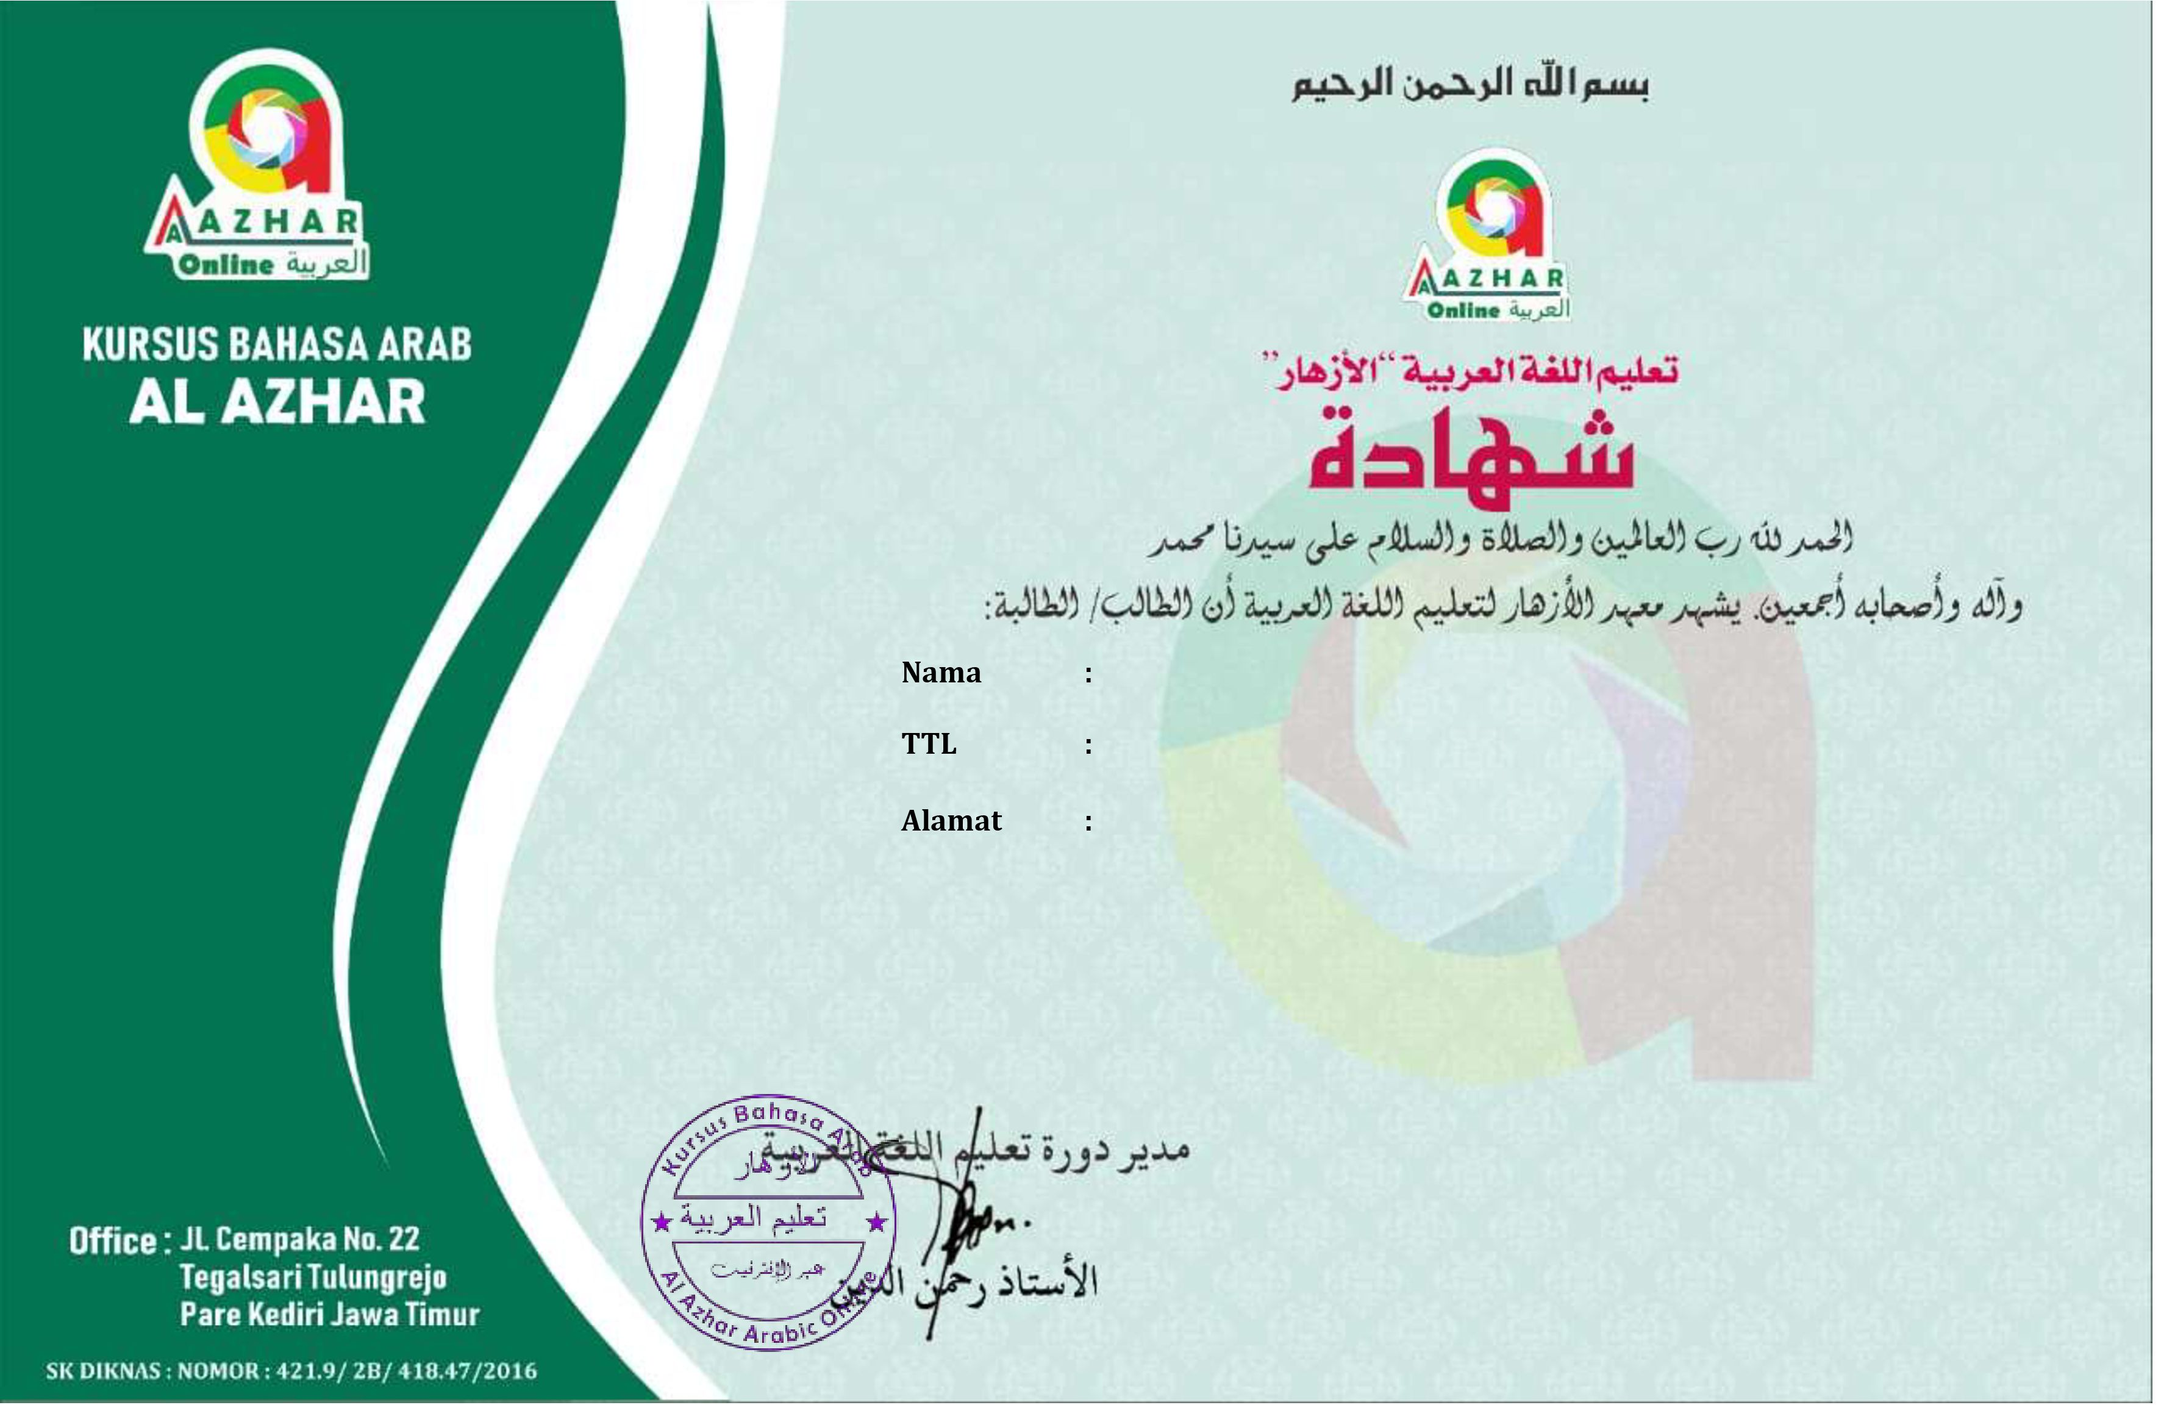
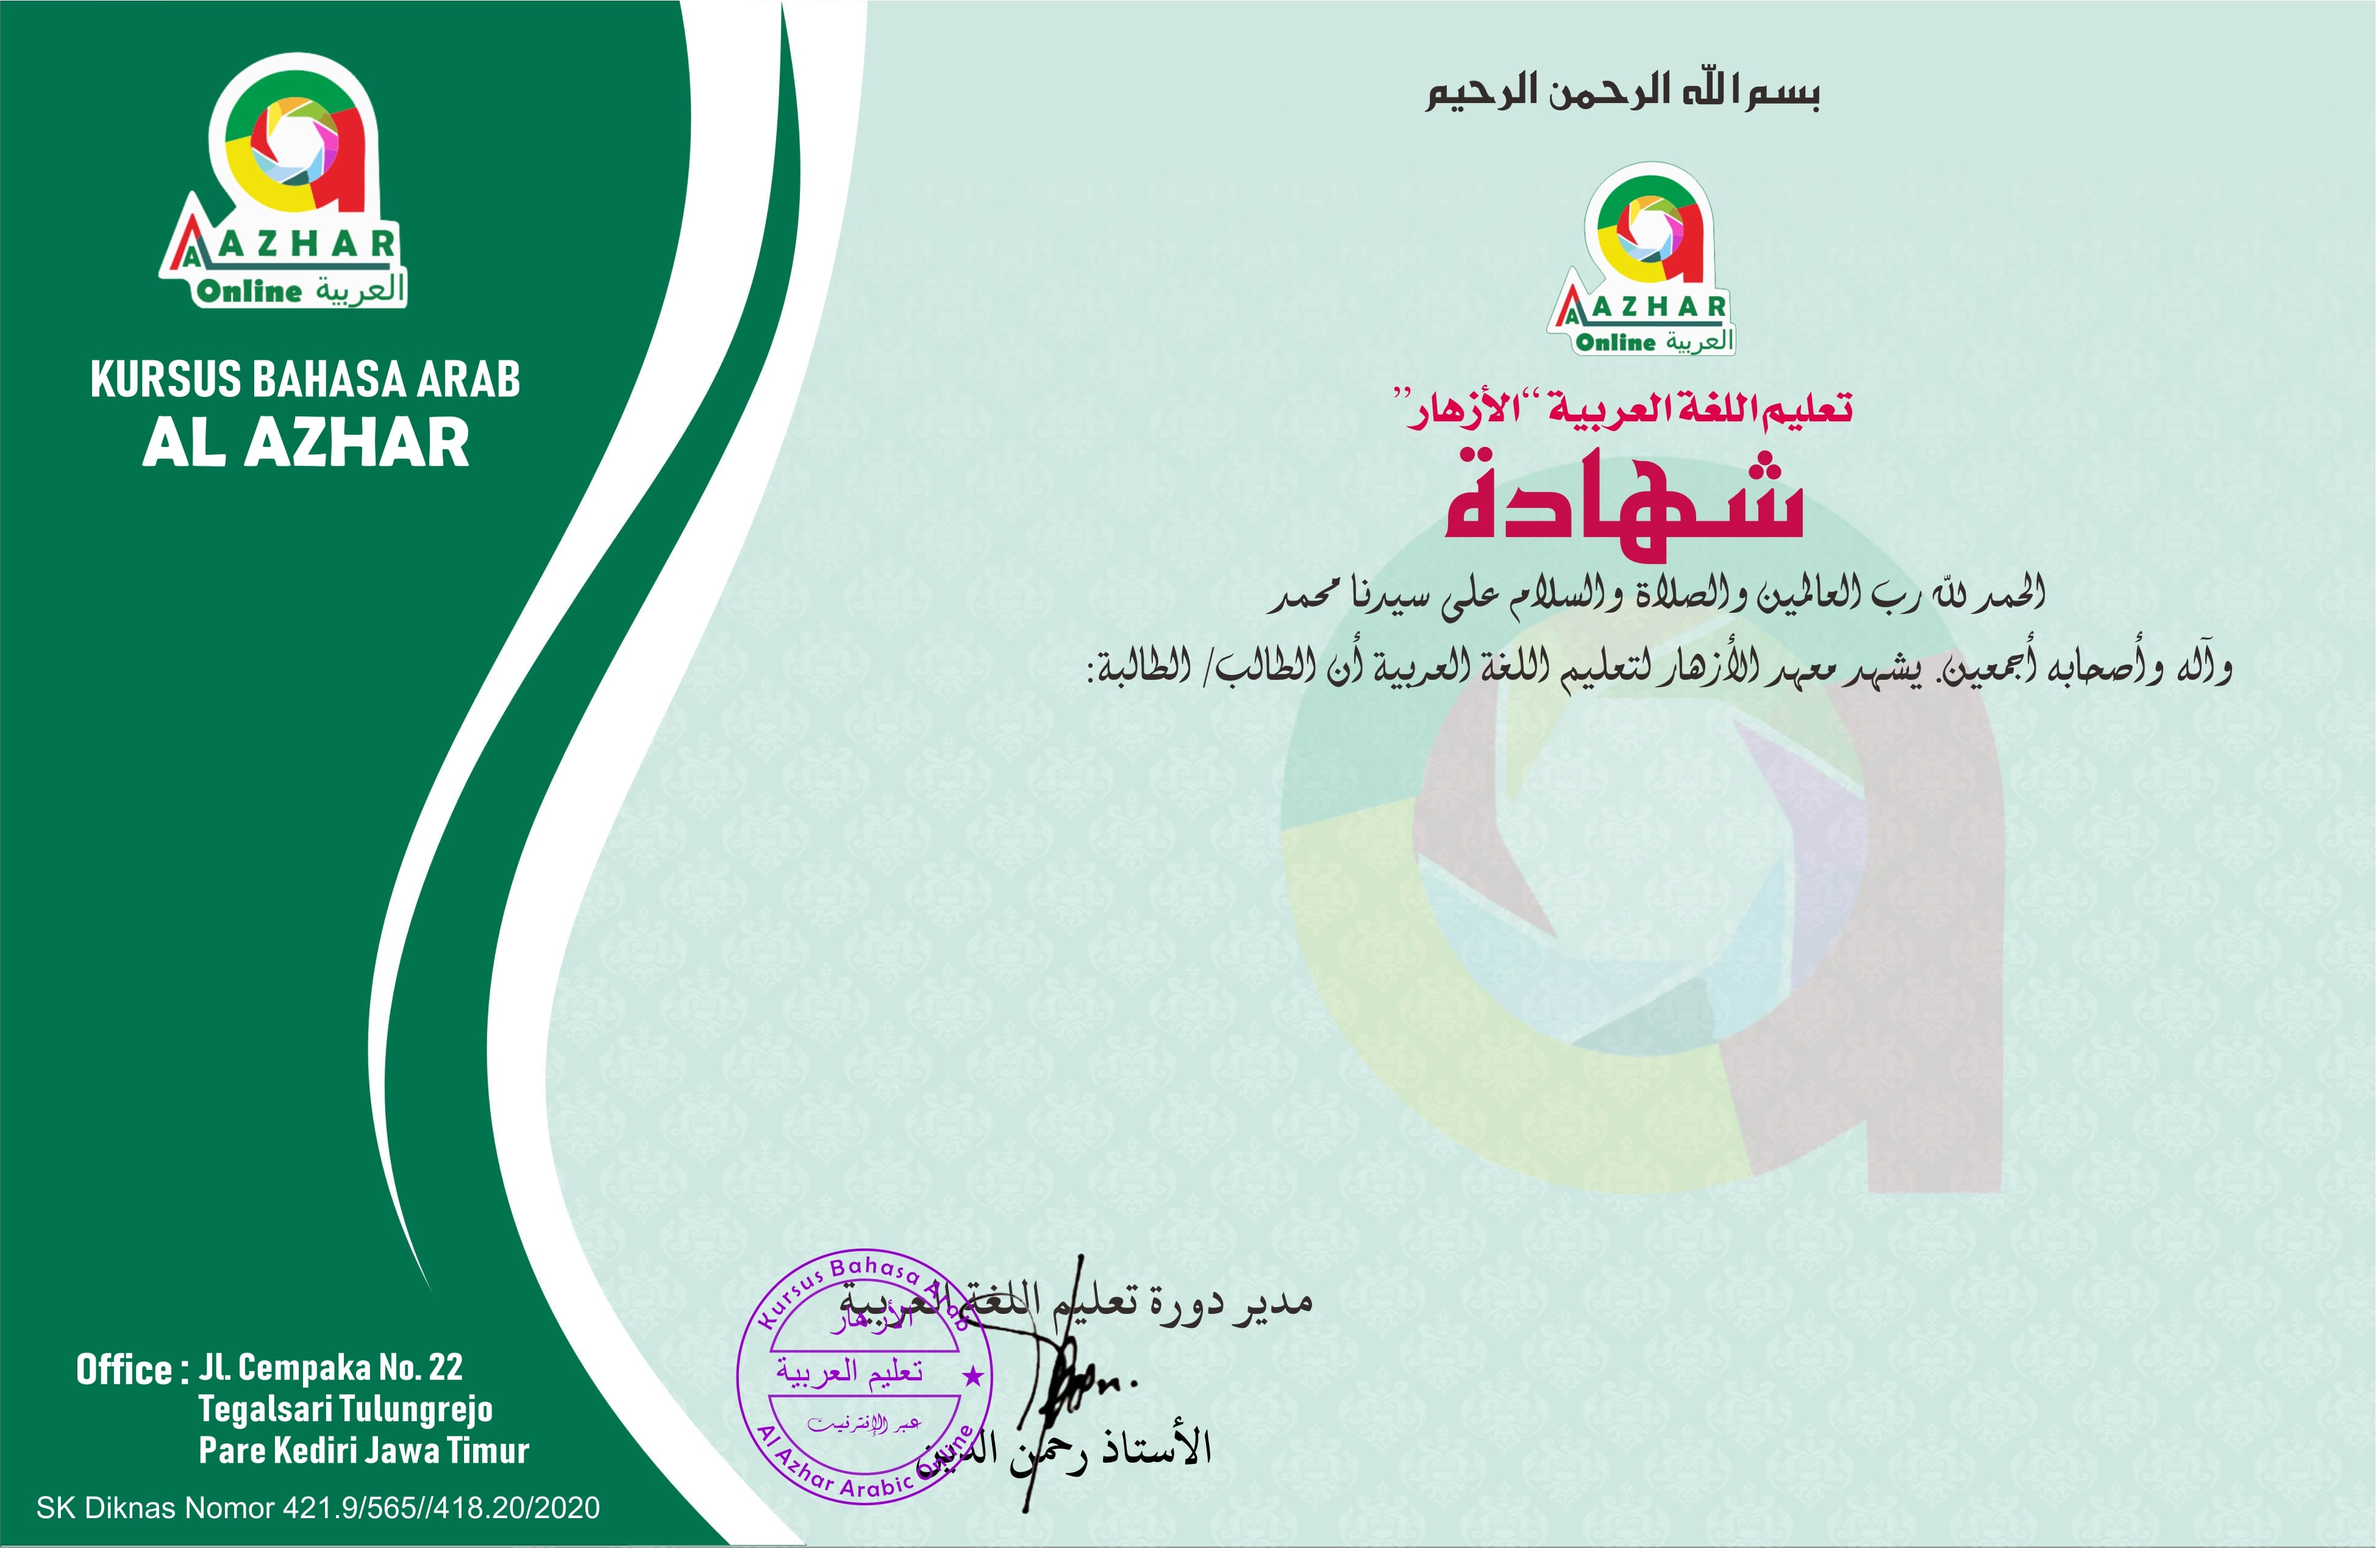
goo

diff --git a/application/views/pages/sertifikat/sertifikat.php b/application/views/pages/sertifikat/sertifikat.php
@@ -68,21 +68,40 @@
             padding: 0;
         }
 
+        .form-nama{
+			position: absolute;
+			left: 525px;
+			top: 362px;
+            font-size: 15px;
+		}
+        .form-ttl{
+			position: absolute;
+			left: 525px;
+			top: 403px;
+            font-size: 15px;
+		}
+        .form-alamat{
+			position: absolute;
+			left: 525px;
+			top: 448px;
+            font-size: 15px;
+		}
+
         .nama{
 			position: absolute;
-			left: 640px;
+			left: 637px;
 			top: 362px;
             font-size: 15px;
 		}
         .ttl{
 			position: absolute;
-			left: 640px;
+			left: 637px;
 			top: 403px;
             font-size: 15px;
 		}
         .alamat{
 			position: absolute;
-			left: 640px;
+			left: 637px;
 			top: 448px;
             font-size: 15px;
 		}
@@ -157,9 +176,13 @@
     <body>
         <div class="bg-sertifikat">
         </div>
-        <p class="nama"><b><?= $peserta['nama']?></b></p>
-        <p class="ttl"><b><?= $peserta['t4_lahir']?>, <?= tgl_indo(date("d-m-Y", strtotime($peserta['tgl_lahir'])))?></b></p>
-        <p class="alamat"><b><?= $peserta['alamat']?></b></p>
+        <!-- <img src="<?= base_url()?>assets/img/sertifikat.jpg" alt="" srcset=""> -->
+        <p class="form-nama"><b>Nama</b></p>
+        <p class="form-ttl"><b>TTL</b></p>
+        <p class="form-alamat"><b>Alamat</b></p>
+        <p class="nama"><b>: <?= $peserta['nama']?></b></p>
+        <p class="ttl"><b>: <?= $peserta['t4_lahir']?>, <?= tgl_indo(date("d-m-Y", strtotime($peserta['tgl_lahir'])))?></b></p>
+        <p class="alamat">: <b><?= $peserta['alamat']?></b></p>
 
         <div class="p1"><p style="text-align: center; margin: 0px">قَدْ دَرَسَ /دَرَسَتْ اللغة العربيّة فِي الْفَصْل "<?= $kelas['program_arab']?>" مِنَ التَّارِيْخ <?= angka_arab(date("j", strtotime($kelas["tgl_mulai"]))) ?> مِنْ </p><span style="font-size: 1px">ه</span></div>
         <div class="p2"><p style="text-align: center; margin: 0px"><?= bulan_arab(date("m", strtotime($kelas["tgl_mulai"]))) ?> إِلَى <?= tgl_arab(date("j-m", strtotime($kelas["tgl_selesai"])))?> <?= angka_arab(date("Y", strtotime($kelas["tgl_selesai"])))?>، وَ قَدْ نَجَحَ /تْ فِي الإمتِحَانِ النِّهَائِ </p><span style="font-size:1px">ن</span></div>

diff --git a/application/views/kelas/kelas.php b/application/views/kelas/kelas.php
@@ -663,7 +663,12 @@
             data: {id:id, nilai:nilai},
             success: function(result){
                 delete_msg();
-                $("#msg-"+id).html(`<small class="form-text text-success msg-nilai">berhasil menginputkan nilai</small>`)
+                // $("#msg-"+id).html(`<small class="form-text text-success msg-nilai">berhasil menginputkan nilai</small>`)
+                if(result == 1){
+                    $("#msg-"+id).html(`<small class="form-text text-success msg-nilai">berhasil menginputkan nilai</small>`)
+                } else {
+                    $("#msg-"+id).html(`<small class="form-text text-danger msg-nilai">nilai belum diinputkan</small>`)
+                }
             }
         })
     })

diff --git a/application/models/Kelas_model.php b/application/models/Kelas_model.php
@@ -86,8 +86,13 @@ class Kelas_model extends CI_Model {
         $id = $this->input->post("id");
         $nilai = $this->input->post("nilai");
 
-        $this->Main_model->edit_data("kelas_user", ["id" => $id], ["nilai" => $nilai]);
-        return 1;
+        if($nilai != ""){
+            $this->Main_model->edit_data("kelas_user", ["id" => $id], ["nilai" => $nilai, "sertifikat" => 1]);
+            return 1;
+        } else {
+            $this->Main_model->edit_data("kelas_user", ["id" => $id], ["nilai" => $nilai, "sertifikat" => 0]);
+            return 0;
+        }
     }
  
 }

diff --git a/application/controllers/Kelas.php b/application/controllers/Kelas.php
@@ -243,7 +243,7 @@ class Kelas extends CI_CONTROLLER{
 
         public function add_nilai_sertifikat(){
             $data = $this->Kelas_model->add_nilai_sertifikat();
-            echo json_encode("1");
+            echo json_encode($data);
         }
     // add
 
